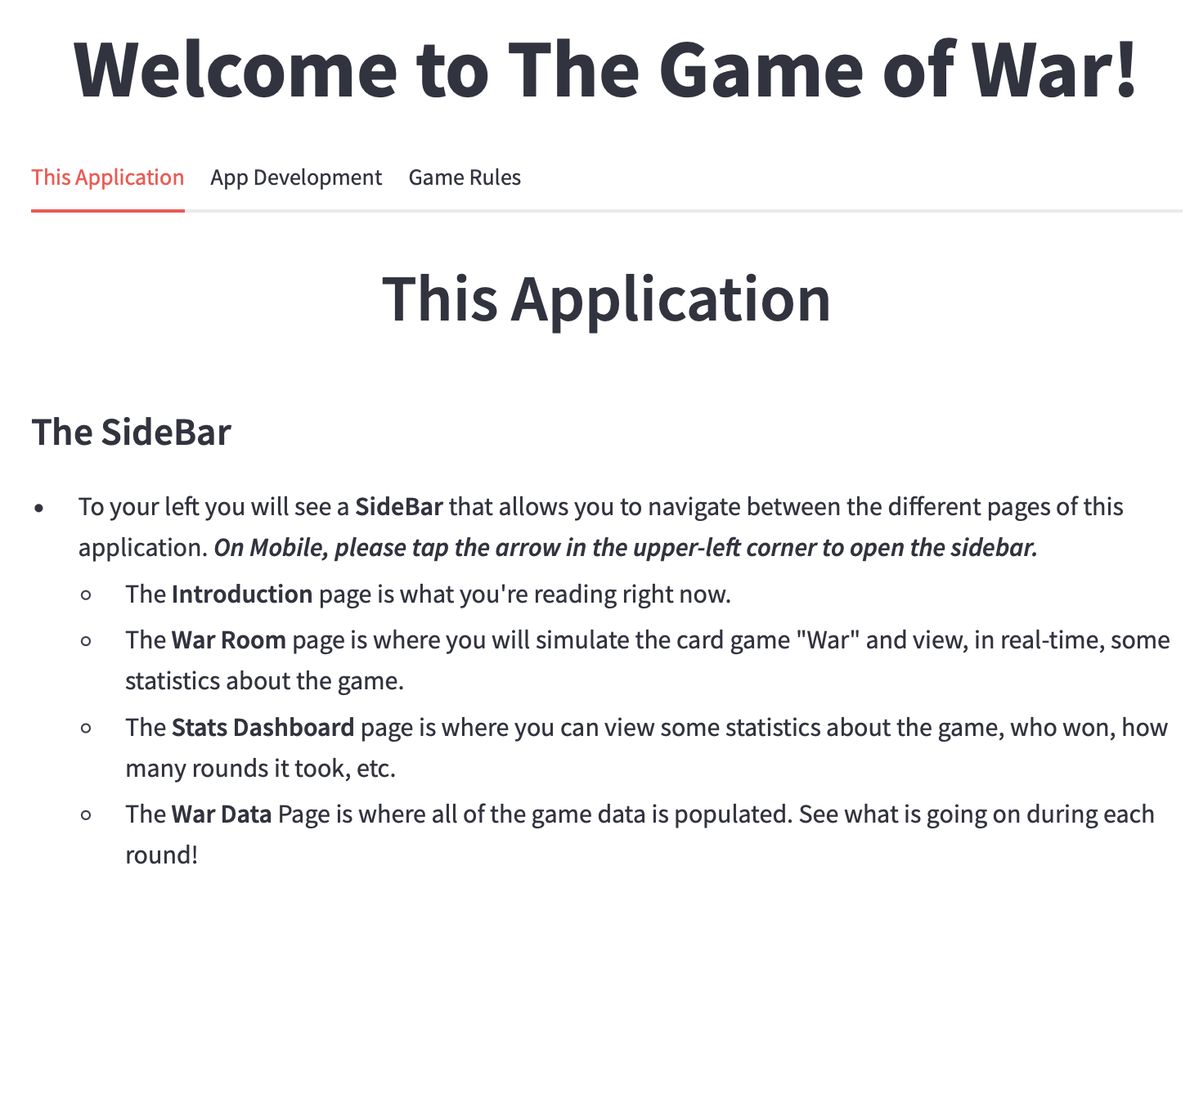
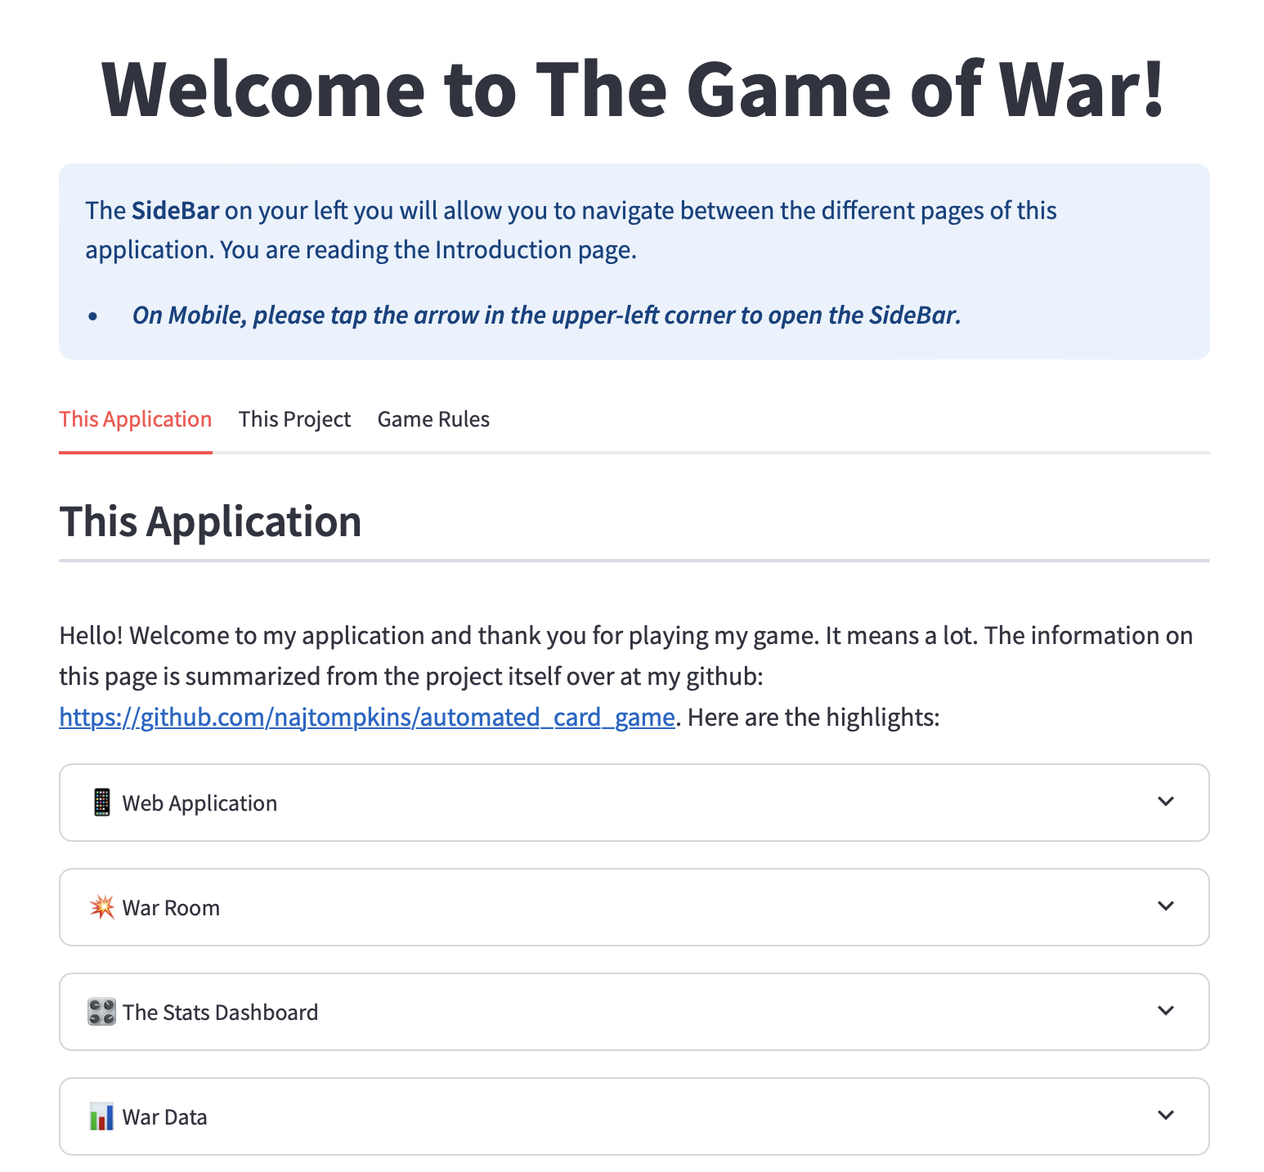
Refined Introduction page and fixed errant hyperlinks

diff --git a/streamlit_application/Introduction.py b/streamlit_application/Introduction.py
@@ -16,26 +16,30 @@ with tabs[0]:  # This Application
     st.subheader('This Application', divider='gray')
     st.write("")
     st.markdown("""
-    Hello! Welcome to my application and thank you for playing my game. It means a lot. The information on this page is summarized from the project itself over at my github: [https://github.com/najtompkins/automated_card_game](https://github.com/najtompkins/automated_card_game). Here are the highlights:
+    Hello! Welcome to my application and thank you for playing my game. It means a lot. The information on this page is summarized from the project itself over at my github: [github.com/najtompkins/automated_card_game](https://github.com/najtompkins/automated_card_game). Here are the highlights:
     """)
     # Tabs for learning about each page in the application
     with st.expander("📱 Web Application"):
         st.markdown("""
-        **The Web Application**: This is the verison of the project you are experiencing now. It is a fully-deployed web application that simulates the card game War, generating player metric dashboards, comprehensive dataframes, and card_distribution charts which help visualize how the game is progressing in real-time. Simulate your own War [here](https://nathansautomatedcardgame.streamlit.app/War_Room)!
+        **The Web Application**: This is the verison of the project you are experiencing now. It is a fully-deployed web application that simulates the card game War, generating player metric dashboards, comprehensive dataframes, and card_distribution charts which help visualize how the game is progressing in real-time.
         """)
+        if st.button("Simulate Your Own War Now!"):
+            st.switch_page("pages/1War_Room.py")
     with st.expander("💥 War Room"):
         st.markdown("""
-        **The War Room**: Found on the **SideBar** or linked [here](https://nathansautomatedcardgame.streamlit.app/War_Room). This page is the crown jewel of this application. It allows you to simulate the game and view (some) of the data generated during the game in real-time, and the rest of the data after a winner has been declared.
+        **The War Room**: Found on the **SideBar** or by clicking the button below. This page is the crown jewel of this application. It allows you to simulate the game and view (some) of the data generated during the game in real-time, and the rest of the data after a winner has been declared.
             """)
+        if st.button("Visit the War Room!"):
+            st.switch_page("pages/1War_Room.py")
         st.image("images/streamlit_images/IncrementThroughGameApp.png")
     with st.expander("🎛 The Stats Dashboard"):
         st.markdown("""
-        **The Stats Dashboard**: This page is where you can view some very unique metrics and statistics about the game as a whole, each player, who won, how many rounds it took, etc. The dashboards are designed to easily understand how the game progressed and who was winning at at the end of any given round.
+        **The Stats Dashboard**: This page is where you can view some very unique metrics and statistics about the game as a whole, or by player, who won, how many rounds they played, etc. The dashboards are designed to easily understand how the game progressed and who was winning at the end of any given round. This page is populated once a War has begun in the **War Room**. 
         """)
         st.image("images/streamlit_images/GameStatsDashboardApp.png")
     with st.expander("📊 War Data"):
         st.markdown("""
-        **The War Data**: The War Data page is simple but vital to the purpose of this application, as the dataframes on display there contain over 40 different metrics generated and reported throughout the game and available to the user to puruse and analyze themselves.
+        **The War Data**: The War Data page is simple but vital to the purpose of this application, as the dataframes on display there contain over 40 different metrics generated and reported throughout the game. These very metrics power the metrics on the **Stats Dashboard** page. The dataframes are available to the user to puruse, download, and analyze the game in detail for themselves.  This page is populated once a War has begun in the **War Room**.
             """)
         st.image("images/streamlit_images/GameDataframeApp.png")
 
@@ -56,7 +60,7 @@ with tabs[1]:  # This Project
         st.markdown("""
         ### **Jupyter Notebook:** 
         The un-refined first version of this project was first ploaded on **March 5th, 2024** and further developed through **April 2nd**, nearly a month later. This is, of course, a Pythonic version, designed to be run inside of a Jupyter Notebook environment. This version utilizes the PyDeck library to create instances of decks, cards, hands, etc. When running the `set_up_game_environment()` function in its cell, followed immediately by the `play_war()` function in its cell, the program will simulate the entire game of war from setup to declaring a winner. During this, the program will build 3 dataframes of exhaustive metrics on each round so that the user can see exactly what happened during the game.
-        - While this is absolutely a 'War Simulator' in functionality. This version of the program is, simply put, not designed to be used outside of development. The Jupyter environment was instrumental in the early developement of the logic and execution of the simulation, but while the file can be found [here](./ipynb_files/war_v6.ipynb), it is not intended for general use as it is simply a peek at development in this project's early stages.
+        - While this is absolutely a 'War Simulator' in functionality. This version of the program is, simply put, not designed to be used outside of development. The Jupyter environment was instrumental in the early developement of the logic and execution of the simulation, but while the file can be found [here](https://github.com/najtompkins/automated_card_game/blob/main/ipynb_files/war_v6_data.ipynb), it is not intended for general use as it is simply a peek at development in this project's early stages.
         """)
         with st.expander("Jupyter: Notebook Imports"):
             st.image("images/ipynb_images/Imports.png", )
@@ -70,7 +74,7 @@ with tabs[1]:  # This Project
     with project_tabs[1]:
         st.markdown("""
         ### **Excel 365/VBA:** 
-        This second version was oddly enough, re-built entirely from the ground up using Visual Basic for Applications (VBA) inside of Microsoft Excel 365. This is a fully-working version of the game and presents the user with a visual dashboard at the end to see the exhaustive statistics gathered during the game's simulation. Why do I also have a version of this program written in a completely different coding language, running in a program designed for a thousand other uses than playing a card game? Because Excel is ubiquitous in the Data Analytics and Business Intelligence industry (especially for smaller businesses) and I used this same project to further refine my Excel skills by building it out in a different and unique way. Download the workbook [here](./excel_files/WarCardGame.xlsm).
+        This second version was oddly enough, re-built entirely from the ground up using Visual Basic for Applications (VBA) inside of Microsoft Excel 365. This is a fully-working version of the game and presents the user with a visual dashboard at the end to see the exhaustive statistics gathered during the game's simulation. Why do I also have a version of this program written in a completely different coding language, running in a program designed for a thousand other uses than playing a card game? Because Excel is ubiquitous in the Data Analytics and Business Intelligence industry (especially for smaller businesses) and I used this same project to further refine my Excel skills by building it out in a different and unique way. Download the workbook [here](https://github.com/najtompkins/automated_card_game/blob/main/excel_files/WarCardGame.xlsm).
         - ***Note: This version is a proof of concept, first and foremost. It does not have the same functionality as the web application, nor is it able to run on MacOS systems. It requires the workbook to be trusted by the user (more information in the project README) and for macros to be enabled within the workbook itself before it is able to run. I am proud of this version, but it is certainly not intended for general use and is, again a proof-of-concept.***
         """)
         with st.expander("VBA: Deal Cards to Players"):
@@ -90,9 +94,12 @@ with tabs[1]:  # This Project
     st.markdown("<hr>", unsafe_allow_html=True)
     st.markdown("""
         #### Play the Game for Yourself
-        Once you've read up on each version of this program, you can play the game yourself. You are interacting with a nearly-completed version of this months-long endeavor, please take the time to [simulate a war](https://nathansautomatedcardgame.streamlit.app/War_Room) or visit the project repository at my github [here](https://github.com/najtompkins/automated_card_game) to learn more about the project in depth.
+        Once you've read up on each version of this program, you can play the game yourself. You are interacting with a nearly-completed version of this months-long endeavor, please take the time to simulate your own War in the **War Room** or visit the project repository [here](https://github.com/najtompkins/automated_card_game) to learn more about this project in depth.
         - Thanks for Playing my game!
         """)
+    if st.button("Simulate Your Own War Now!", key="from_thank_you_1"):
+        st.switch_page("pages/1War_Room.py")
+
 
 with tabs[2]:  # Game Rules
     st.subheader('Game Rules', divider='orange')

diff --git a/README.md b/README.md
@@ -3,6 +3,9 @@
 Explore the classic card game 'War' reimagined in Python and Visual Basic for Applications (VBA), featuring implementations both as a Streamlit web app and an Excel-based experience!
 ## Project Repository Located: [Here](https://github.com/najtompkins/automated_card_game)
 
+### Developer: Nathan-Andrew Tompkins
+### LinkedIn: [Nathan-Andrew Tompkins](https://www.linkedin.com/in/nathan-andrew-tompkins/)
+
 ### Streamlit Intro Page:
 <p align="center">
     <img src="./images/streamlit_images/WarIntroApp.png" alt="First Image" width="45%"/>
@@ -51,7 +54,7 @@ Explore the classic card game 'War' reimagined in Python and Visual Basic for Ap
         <img src="./images/streamlit_images/Player1DashboardApp.png" alt="Second Image" width="33%"/>
         <img src="./images/streamlit_images/Player2DashboardApp.png" alt="First Image" width="33%"/>
         </p>
-    1. The below line charts are rendered at the bottom of each player's dashboard. These charts are much more extensive in the data that they display and allow the user to better visualize how each player was doing throughout the rounds, how many times the players traded dominance (holding the most cards) or how many wars there were in total.
+    1. The below line charts are rendered at the bottom of each player's dashboard. These charts are much more extensive in the data that they display and allow the user to better visualize how each player was doing throughout the rounds, how many times the players traded dominance (holding the most cards) or how many Wars there were in total.
         <p align="center" vertical_align='center'>
         <img src="./images/streamlit_images/EndOfGameWarChartApp.png" alt="Third Image" width="70%"/>
         </p>
@@ -64,7 +67,7 @@ Explore the classic card game 'War' reimagined in Python and Visual Basic for Ap
         <img src="./images/streamlit_images/P1DataframeApp.png" alt="Second Image" width="33%"/>
         <img src="./images/streamlit_images/P2DataframeApp.png" alt="First Image" width="33%"/>
         </p>
-6. **The Code**: All of this operates on a few thousand lines of code. Below are a few snippets of that code so that you can get an understanding of how this was structured in the background. All of this code is avaialable to puruse over [here](./streamlit_application) in the streamlit_application directory as well.
+6. **The Code**: All of this operates on a few thousand lines of code. Below are a few snippets of that code so that you can get an understanding of how this was structured in the background. The code in full is available to peruse over in the [streamlit_application directory](./streamlit_application).
         <p align="center" vertical_align='center'>
         <img src="./images/streamlit_images/LandingPageCode.png" alt="Third Image" width="33%"/>
         <img src="./images/streamlit_images/WarRoomCode.png" alt="Third Image" width="33%"/>
@@ -78,10 +81,10 @@ Explore the classic card game 'War' reimagined in Python and Visual Basic for Ap
 
 ### **Excel VBA Workbook**: - [Download Excel Workbook](./excel_files/WarCardGame.xlsm)
 1. **Summary**: Dive into the Excel adaptation of 'War' where game logic and visual feedback are merged. This version highlights the adaptability of VBA in creating interactive, data-rich user experiences, animations, and dashboards. This version is robust but imperfect. Designed as a proof-of-concept it is a working prototype which takes the user from and introduction to the game's rules all of the way through to a custom dashboard of game and player metrics.
-    - *Note that the workbook must be selected as 'trusted' ***prior to opening the file for the first time***. Once open, you must select the 'Enable Macros' button at the top of the screen for the excel version of this program to run properly.* (*More Information about trusting a file [here](https://support.microsoft.com/en-us/topic/a-potentially-dangerous-macro-has-been-blocked-0952faa0-37e7-4316-b61d-5b5ed6024216)*)
-    - *Note as well that this version was developed for Windows. As such, when run on MacOS the program encounters an error which renders it unusable. This is unsurprising as Microsoft's support for extensive VBA/Macro usage on MacOS is not exhaustive.*
+    - *Note: Due to Microsoft's robust security settings around the usage of macros in workbooks downloaded from the internet (such as the one linked above,) after you have downloaded it, the file must be 'trusted' ***prior to opening the workbook for the first time***. Once open, you must select the 'Enable Macros' button at the top of the screen for the Excel version of this program to run properly.* (*For more information about trusting a file, check out Microsoft's own page about it [here](https://support.microsoft.com/en-us/topic/a-potentially-dangerous-macro-has-been-blocked-0952faa0-37e7-4316-b61d-5b5ed6024216).*)
+    - *Note (again): This workbook version was developed for Windows using Microsoft Excel 365. When run on MacOS (tested on: Sonoma 14.0) the macros encounter an error which render it unusable. This is unsurprising as Microsoft's support for extensive VBA/Macro usage on MacOS is not exhaustive. Re-testing on the Windows OS does not replicate this error.*
 
-3. **The Introduction**: Once the workbook has been trusted you will be greeted with an animation (in excel? Yes! But I can't link to it here in the ReadMe) that renders the words "LET'S GO TO... WAR!" one after the other. The user is then brought to the Game Rules worksheet. This worksheet explains the rules of the game and also contains a button that, once pressed, initialized the game environment set-up. Original War rules are cited from [here](https://bicyclecards.com/how-to-play/war) beneath the cells.
+3. **The Introduction**: Once the workbook has been trusted you will be greeted with an animation (in Excel?? Yes! But I can't link to it here in the ReadMe) that renders the words "LET'S GO TO... WAR!" one after the other. The user is then brought to the Game Rules worksheet. This worksheet explains the rules of the game and also contains a button that, once pressed, initialized the game environment set-up. Original War rules are cited from [here](https://bicyclecards.com/how-to-play/war) beneath the cells.
         <p align="center" vertical_align='center'>
         <img src="./images/excel_images/GameRules.png" alt="Third Image" width="90%"/>
         </p>
@@ -92,7 +95,7 @@ Explore the classic card game 'War' reimagined in Python and Visual Basic for Ap
         <img src="./images/excel_images/DealCards2Msg.png" alt="Third Image" width="30%"/>
         </p>
 
-4. **The Front End**: The 'Front End' worksheet, previously generated once the player clicked 'Play the Game!' now changes into it's proper form: Two players, one on either side, a comparison table in the center, and discard piles off to the sides. Another 'Play War!' button is presented that, once pressed, simulates the entirety of the game. Unlike the Streamlit App version above you cannot increment through the rounds and must wait for the game to be simulated. A winner must be declared before the user can interact with Excel again, as this is a limitation to running macros so extensively.
+4. **The Front End**: The 'Front End' worksheet, previously generated once the player clicked 'Play the Game!' now changes into it's proper form: Two players, one on either side, a comparison table in the center, and discard piles off to the sides. Another 'Play War!' button is presented that, once pressed, simulates the entire game. Unlike the Streamlit App version above you cannot increment through the rounds and must wait for the game to be simulated. A winner must be declared before the user can interact with Excel again, as this is a limitation to running macros so extensively.
         <p align="center" vertical_align='center'>
         <img src="./images/excel_images/FrontEnd.png" alt="Third Image" width="90%"/>
         </p>
@@ -112,12 +115,12 @@ Explore the classic card game 'War' reimagined in Python and Visual Basic for Ap
         <p align="center" vertical_align='center'>
         <img src="./images/excel_images/TotalsWon.png" alt="Third Image" width="50%"/>
         </p>
-6. **Generated Game Data**: After all has been done, the user is free to explore the other worksheets. A few buttons exist between the 4 worksheets that allow the user the simulate another game. The 'Game Data' worksheet presents the use with every metric recorded during the game. Longer games result in longer tables, shorter games, the opposite. Each row is either a complete round, or a sub-round within a war.
+6. **Generated Game Data**: After all has been done, the user is free to explore the other worksheets. A few buttons exist between the 4 worksheets that allow the user the simulate another game. The 'Game Data' worksheet presents the use with every metric recorded during the game. Longer games result in longer tables, shorter games, the opposite. Each row is either a complete round, or a sub-round within a War.
         <p align="center" vertical_align='center'>
         <img src="./images/excel_images/GameDataTable.png" alt="Third Image" width="100%"/>
         </p>
-7. **Hidden Macros**: As mentioned, this version operates using macros. Another word for macros in this context are subroutines. Everything from comparing card values to each other using Index/Match functions, to shuffling the starting deck, creating the front-end, or dealing cards back into the players' hands when they've run out... they are all subroutines developed for this workbook. Take a look at a few below. 
-    **Note: The shuffling algorithm sub was generated using ChatGPT 4 on 3/16/24. This entire codeblock was generated so that development effort could be spent on the rest of the program. GPT was also utilized in other areas, though mostly for aesthetic and UX purposes.**
+7. **Hidden Macros**: As mentioned, this version operates using macros. Another word for macros in this context are subroutines. Everything from comparing card values to each other using Index/Match functions, to shuffling the starting deck, creating the front end, or dealing cards back into the players' hands when they've run out... they are all subroutines developed for this workbook. Take a look at a few below. 
+    - **Note: The shuffling algorithm sub was generated using ChatGPT 4 on 3/16/24. This entire codeblock was generated so that development effort could be spent on the rest of the program. GPT was also utilized in other areas throughout the program, though mostly for aesthetic and UX purposes.**
         <p align="center" vertical_align='center'>
         <img src="./images/excel_images/DealToComparisonCode.png" alt="Third Image" width="33%"/>
         <img src="./images/excel_images/MakeEverythingCode.png" alt="Third Image" width="33%"/>
@@ -129,7 +132,7 @@ Explore the classic card game 'War' reimagined in Python and Visual Basic for Ap
         </p>
 
 ### **Python Implementation**: - [View Notebook](./ipynb_files/war_v6_data.ipynb)
-1. **Summary**: Peek into (or use!) the Jupyter Notebook version of 'War'. This version uses custom functions for dealing cards, handling comparisons, wars, data generation/reporting and declaring a winner after any number of game rounds. This is the original working code-base for this game upon which the Streamlit version is built. It allows the user to run each portion of the code and before running the next. The power of this version comes from first running the (`set_up_game_environment()`) function cell followed by the (`play_war()`) function cell. The latter will output round information via print-statements. Round and game information generated here is available in the dataframes in in the final cells of the code.
+1. **Summary**: Peek into (or use!) the Jupyter Notebook version of 'War'. This version uses custom functions for dealing cards, handling comparisons, Wars, data generation/reporting and declaring a winner after any number of game rounds. This is the original working code-base for this game upon which the Streamlit version is built. It allows the user to run each portion of the code and before running the next. The power of this version comes from first running the (`set_up_game_environment()`) function cell followed by the (`play_war()`) function cell. The latter will output round information via print-statements. Round and game information generated here is available in the dataframes in in the final cells of the code.
         <p align="center" vertical_align='center'>
         <img src="./images/ipynb_images/SetupAndPlay.png" alt="Third Image" width="100%"/>
         </p>
@@ -183,9 +186,10 @@ Restructured st.metric elements into 4 columns on the Game Data tab.
 ### Enhanced Introduction Page
 - **April 21, 2024**: Enhanced the Introduction page to bring it closer inline to this README, linking to it and so that the project's cohesion between documentation and application are closer in step, adding tabular sections for easier navigation, and some of the images also linked above.
 
+-**April 22, 2024**: Fixed errant hyperlinks on the Introduction page of the application, added buttons for navigation between pages. Some previous hyperlinks opened a new session of the app which confuses the player if they've simulated a War and no longer see the data becuase of these new sessions.
 
 ### Future Features
- - **Dataframe Conditional Formatting**: In all dataframe elements present in the application each row will be subtly colored to the corresponding winner of that round, and if the case where there is a war and there is not round winner, a redish color will appear.
+ - **Dataframe Conditional Formatting**: In all dataframe elements present in the application each row will be subtly colored to the corresponding winner of that round, and if the case where there is a War and there is not round winner, a redish color will appear.
  - **Custom Name and Colors for Players**: In the Landing Page I want to add text-box inputs that will allow the user to choose their name (defaulted to Player 1 or 2 at this moment, hard-coded) and colors to represent them as either player during the simulation game and subsequent metrics.
 
 
@@ -195,15 +199,14 @@ Restructured st.metric elements into 4 columns on the Game Data tab.
 
 ## Jupyter Notebook War Simulator.
 ### Initial Exploration
-- **March 1, 2024**: First iteration deployed. The program runs indefinitely, highlighting the need for refined comparison and win conditions. [View Version 1](./ipynb%20files/war_v1.ipynb)
-
+- **March 1, 2024**: First iteration deployed. The program runs indefinitely, highlighting the need for refined comparison and win conditions. [View Version 1](./ipynb_files/war_v1.ipynb)
 ### Refinements and Debugging
 - **March 5, 2024**: Introduced a more structured game flow. [View Version 2](./ipynb_files/war_v2.ipynb)
 - **March 12, 2024**: Addressed issues in game logic, still perfecting the win conditions. [View Version 3](./ipynb_files/war_v3.ipynb)
 - **March 15, 2024**: Achieved a fully functional game with robust handling of game states and card permenance. [View Version 4](./ipynb_files/war_v4.ipynb)
 
 ### Advanced Enhancements
-- **April 2, 2024**: Launched a highly optimized version, integrating sophisticated data structures for the generation of game and round data into Pandas Dataframes for further analytics. [View Version 6](./ipynb_files/war_v6.ipynb)
+- **April 2, 2024**: Launched a highly optimized version, integrating sophisticated data structures for the generation of game and round data into Pandas Dataframes for further analytics. [View Version 6](./ipynb_files/war_v6_data.ipynb)
 
 
 ## Lessons Learned
